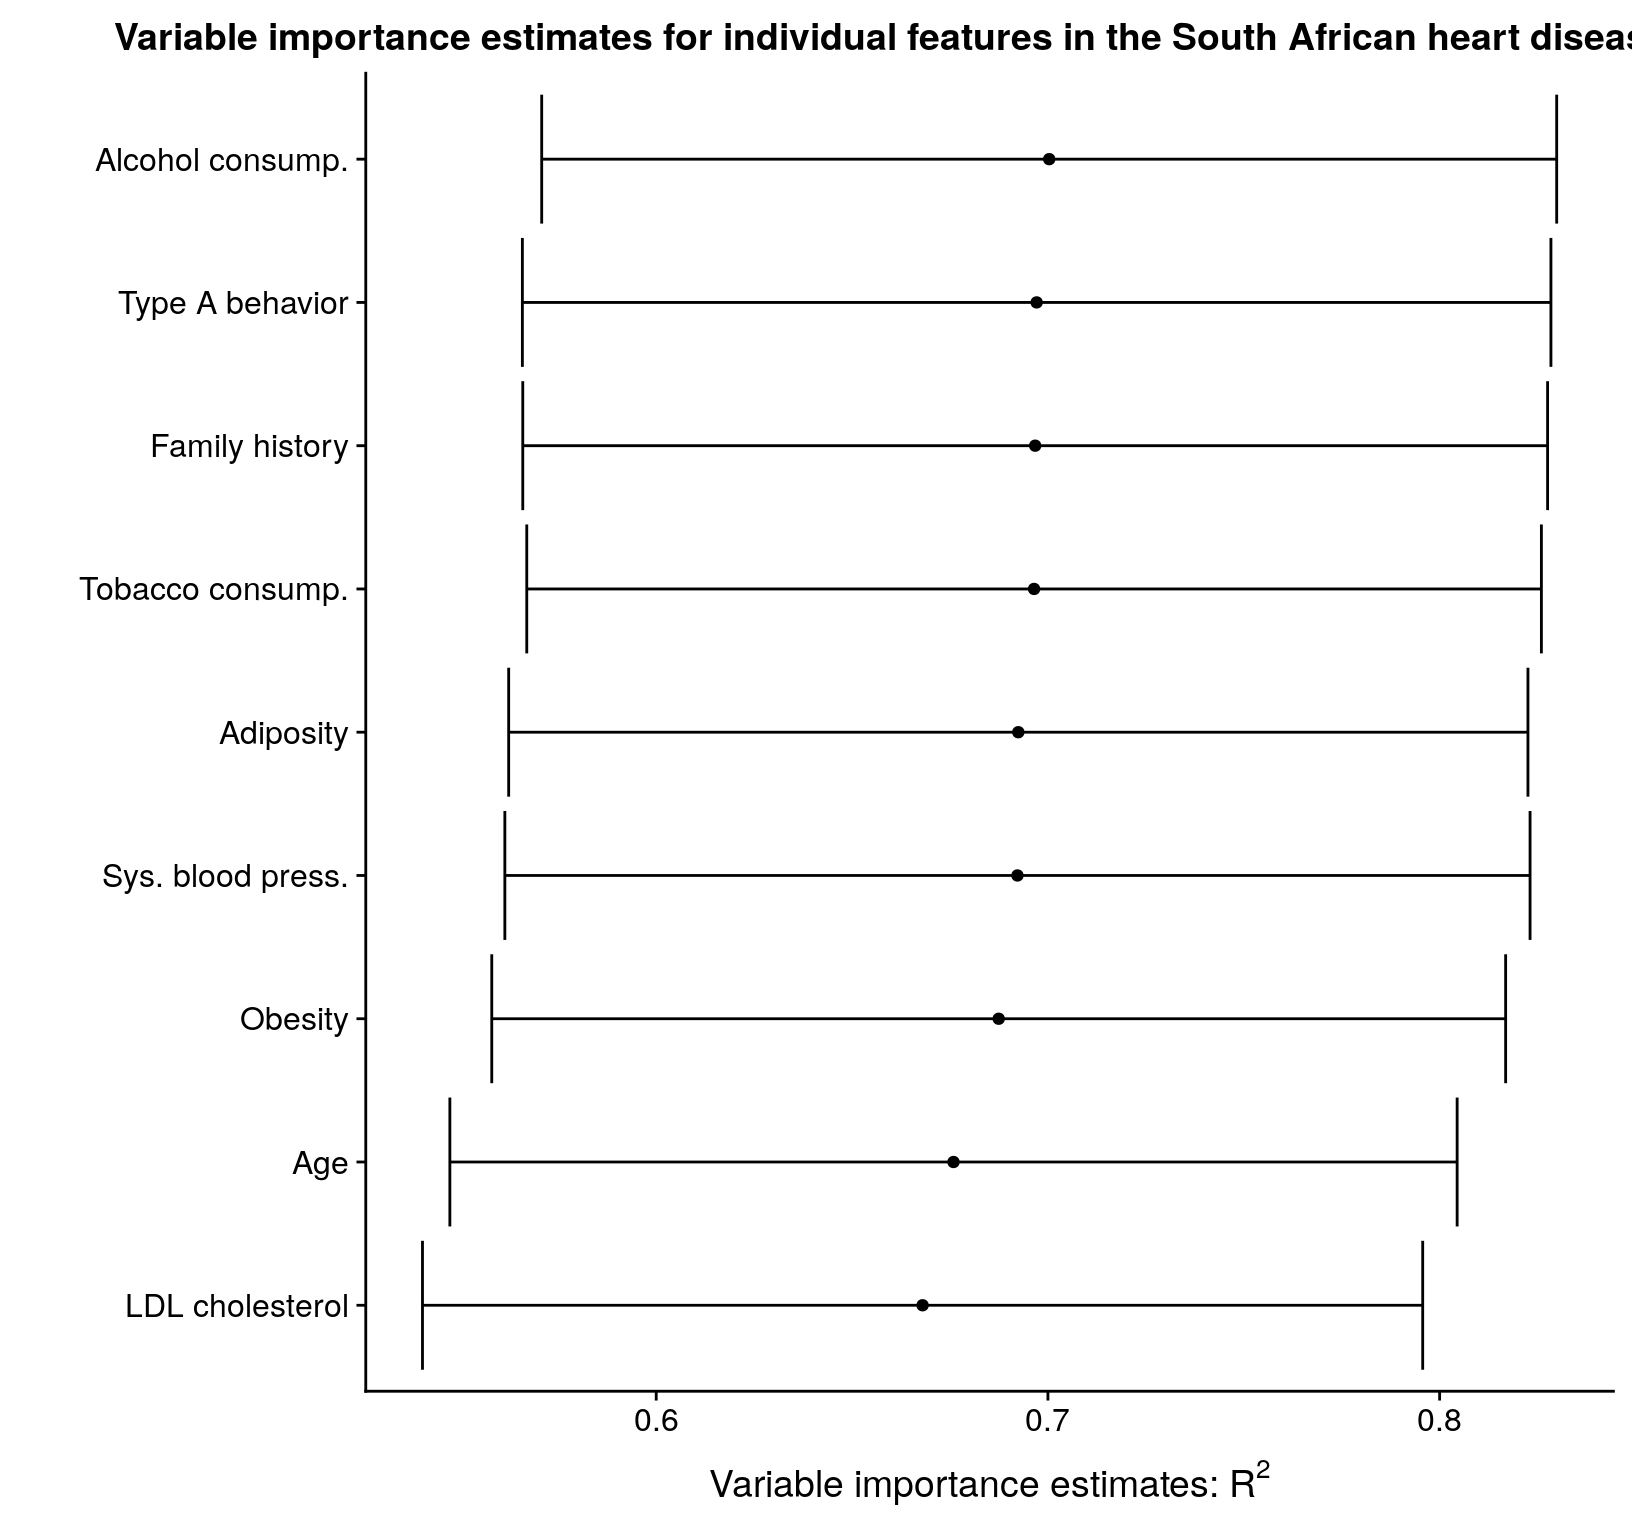
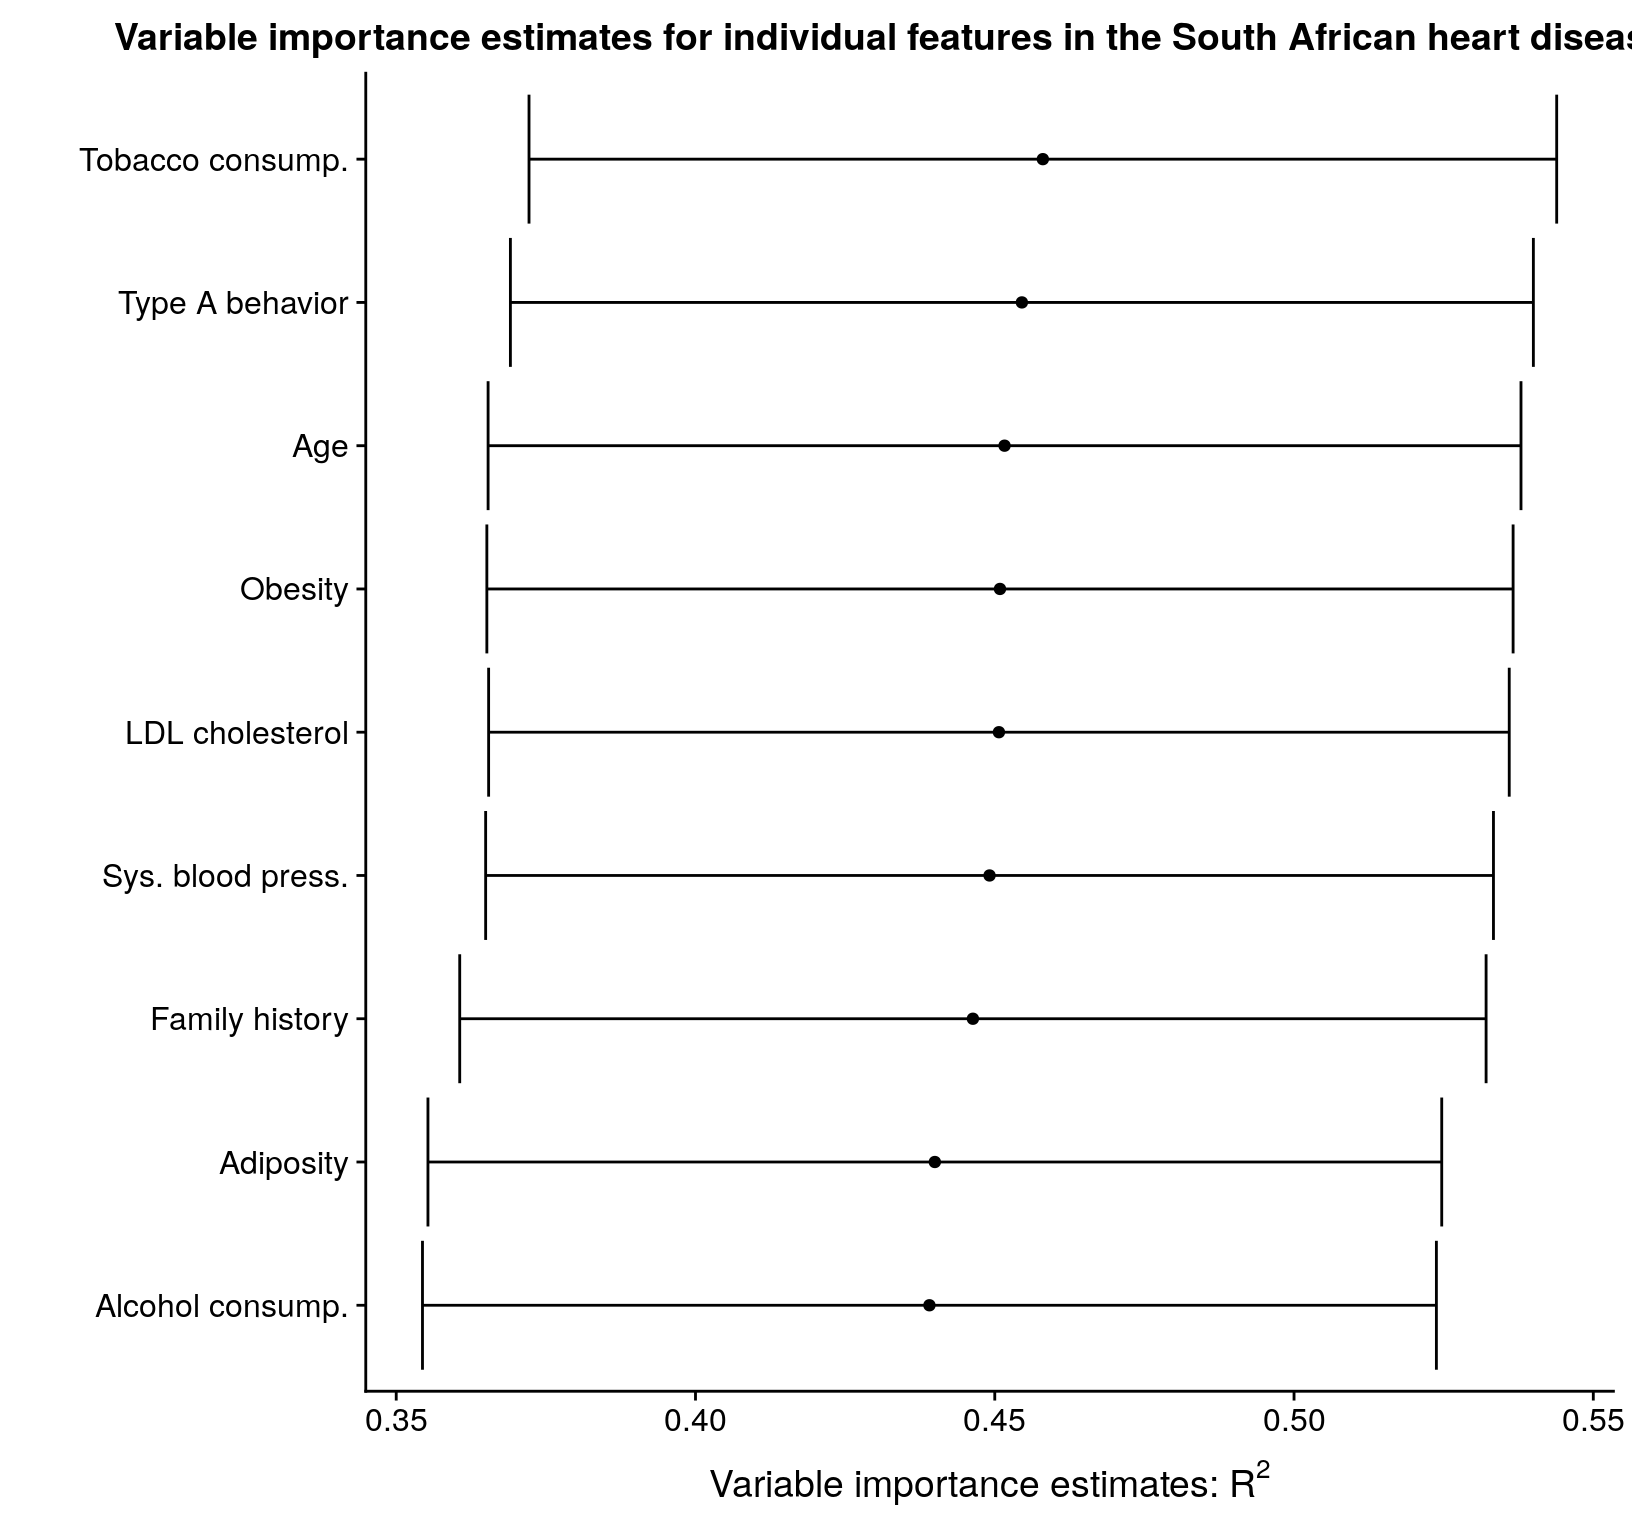
update pkgdown site

diff --git a/docs/articles/introduction_to_vimp.html b/docs/articles/introduction_to_vimp.html
@@ -170,7 +170,7 @@
 ## 
 ## Variable importance estimates:
 ##       Estimate  SE         95% CI                  VIMP &gt; 0 p-value
-## s = 1 0.1193699 0.04499151 [0.03118814, 0.2075516] NA       NA</code></pre>
+## s = 1 0.1614381 0.04820007 [0.06696767, 0.2559085] NA       NA</code></pre>
 <div class="sourceCode" id="cb18"><html><body><pre class="r"><span class="fu"><a href="https://rdrr.io/r/base/print.html">print</a></span>(<span class="no">est_1</span>)</pre></body></html></div>
 <pre><code>## Call:
 ## cv_vim(Y = Y, X = X, f1 = f1, f2 = f2, indx = indx, V = V, folds = folds, 
@@ -180,8 +180,8 @@
 ## 
 ## Variable importance estimates:
 ##       Estimate  SE         95% CI                  VIMP &gt; 0 p-value
-## s = 1 0.1193699 0.04499151 [0.03118814, 0.2075516] NA       NA</code></pre>
-<p>This output shows that we have estimated the importance of <span class="math inline">\(X_1\)</span> to be 0.119, with a 95% confidence interval of [0.031, 0.208].</p>
+## s = 1 0.1614381 0.04820007 [0.06696767, 0.2559085] NA       NA</code></pre>
+<p>This output shows that we have estimated the importance of <span class="math inline">\(X_1\)</span> to be 0.161, with a 95% confidence interval of [0.067, 0.256].</p>
 </div>
 <div id="detailed-guide" class="section level2">
 <h2 class="hasAnchor">
@@ -281,15 +281,15 @@
 ## 
 ## Variable importance estimates:
 ##       Estimate  SE         95% CI                 VIMP &gt; 0 p-value     
-## s = 5 0.4027600 0.06235989 [0.2805369, 0.5249831] TRUE     1.886314e-10
-## s = 6 0.4015080 0.06228207 [0.2794374, 0.5235787] TRUE     2.108901e-10
-## s = 8 0.3979152 0.06237592 [0.2756606, 0.5201697] TRUE     2.807324e-10
-## s = 2 0.3975083 0.06232363 [0.2753563, 0.5196604] TRUE     3.130411e-10
-## s = 1 0.3969390 0.06232560 [0.2747830, 0.5190949] TRUE     3.109413e-10
-## s = 4 0.3948279 0.06268663 [0.2719644, 0.5176914] TRUE     3.494384e-10
-## s = 7 0.3908953 0.06236935 [0.2686537, 0.5131370] TRUE     3.897709e-10
-## s = 9 0.3906595 0.06207381 [0.2689971, 0.5123220] TRUE     5.563547e-10
-## s = 3 0.3873136 0.06202466 [0.2657475, 0.5088797] TRUE     6.905646e-10</code></pre>
+## s = 3 0.2232049 0.04890184 [0.1273590, 0.3190507] TRUE     1.999632e-06
+## s = 9 0.2186993 0.04877258 [0.1231069, 0.3142918] TRUE     3.332200e-06
+## s = 6 0.2178259 0.04880772 [0.1221645, 0.3134873] TRUE     3.537404e-06
+## s = 1 0.2174074 0.04838651 [0.1225716, 0.3122432] TRUE     3.480110e-06
+## s = 7 0.2166329 0.04878379 [0.1210184, 0.3122473] TRUE     3.970101e-06
+## s = 2 0.2156883 0.04875169 [0.1201368, 0.3112399] TRUE     4.361981e-06
+## s = 4 0.2155560 0.04850978 [0.1204786, 0.3106334] TRUE     4.162218e-06
+## s = 8 0.2139217 0.04828847 [0.1192780, 0.3085653] TRUE     4.101858e-06
+## s = 5 0.2034575 0.04853671 [0.1083273, 0.2985877] TRUE     1.267403e-05</code></pre>
 </div>
 <div id="building-a-library-of-learners" class="section level3">
 <h3 class="hasAnchor">
@@ -406,24 +406,24 @@
 ## 
 ## Variable importance estimates:
 ##       Estimate  SE         95% CI                 VIMP &gt; 0 p-value
-## s = 5 0.6967471 0.06674568 [0.5659279, 0.8275662] TRUE     0</code></pre>
+## s = 5 0.4463482 0.04374594 [0.3606078, 0.5320887] TRUE     0</code></pre>
 <p>The object returned by <code><a href="../reference/vimp_rsquared.html">vimp_rsquared()</a></code> also contains fitted values from using <code><a href="https://rdrr.io/pkg/SuperLearner/man/SuperLearner.html">SuperLearner()</a></code>; I access these using <code>$full_fit</code> and <code>$red_fit</code>. For example,</p>
 <div class="sourceCode" id="cb35"><html><body><pre class="r"><span class="fu"><a href="https://rdrr.io/r/utils/head.html">head</a></span>(<span class="no">fam_vim</span>$<span class="no">full_fit</span>)</pre></body></html></div>
 <pre><code>##            [,1]
-## [1,]  0.4126337
-## [2,]  0.7892806
-## [3,]  0.1196835
-## [4,]  0.5688739
-## [5,]  0.7564208
-## [6,] -0.1229699</code></pre>
+## [1,]  0.1862281
+## [2,]  0.2243440
+## [3,]  0.1360819
+## [4,]  0.7298691
+## [5,]  0.8133968
+## [6,] -0.2214518</code></pre>
 <div class="sourceCode" id="cb37"><html><body><pre class="r"><span class="fu"><a href="https://rdrr.io/r/utils/head.html">head</a></span>(<span class="no">fam_vim</span>$<span class="no">red_fit</span>)</pre></body></html></div>
 <pre><code>##           [,1]
-## [1,] 0.4871778
-## [2,] 0.3931104
-## [3,] 0.2921853
-## [4,] 0.4709787
-## [5,] 0.4360560
-## [6,] 0.2747836</code></pre>
+## [1,] 0.3779895
+## [2,] 0.2527480
+## [3,] 0.4404965
+## [4,] 0.2931574
+## [5,] 0.5035260
+## [6,] 0.1638404</code></pre>
 <p>I said earlier that I want to obtain estimates of all individual features in these data, so let’s choose type A behavior (<code>tpa</code>) next. Now that I have estimated variable importance for family history, the <code>full_fit</code> object contains our estimate of <span class="math inline">\(\mu_{P_0}\)</span>. Since I have spent the time to estimate this using <code><a href="https://rdrr.io/pkg/SuperLearner/man/SuperLearner.html">SuperLearner()</a></code>, there is no reason to estimate this function again. This leads me to choose (2) above for estimating the importance of type A behavior, since I have already estimated variable importance on one feature in this dataset. Using the small learners library (again only for illustration) yields</p>
 <div class="sourceCode" id="cb39"><html><body><pre class="r"><span class="co">## specify that full_fit doesn't change</span>
 <span class="no">full_fit</span> <span class="kw">&lt;-</span> <span class="no">fam_vim</span>$<span class="no">full_fit</span>
@@ -439,8 +439,8 @@
 ##     run_regression = FALSE, folds = heart_folds)
 ## 
 ## Variable importance estimates:
-##       Estimate  SE        95% CI                 VIMP &gt; 0 p-value
-## s = 6 0.6971224 0.0669882 [0.5658279, 0.8284168] TRUE     0</code></pre>
+##       Estimate  SE         95% CI                 VIMP &gt; 0 p-value
+## s = 6 0.4545315 0.04360064 [0.3690758, 0.5399871] TRUE     0</code></pre>
 <p>This takes approximately 5 seconds — now rather than estimating both conditional means, I am only estimating one.</p>
 <p>If I choose (2), then I have to use a single method from the library, or call <code><a href="https://rdrr.io/pkg/SuperLearner/man/SuperLearner.html">SuperLearner()</a></code> myself, prior to estimating variable importance. Then <code><a href="../reference/vim.html">vim()</a></code> returns variable importance estimates based on these fitted values. For example, let’s estimate variable importance for current alcohol consumption using this approach.</p>
 <div class="sourceCode" id="cb41"><html><body><pre class="r"><span class="co">## set up the data, removing the columns for alcohol use and chd</span>

diff --git a/docs/index.html b/docs/index.html
@@ -5,13 +5,13 @@
 <meta charset="utf-8">
 <meta http-equiv="X-UA-Compatible" content="IE=edge">
 <meta name="viewport" content="width=device-width, initial-scale=1.0">
-<title>Perform Inference on Algorithm-agnostic Variable Importance • vimp</title>
+<title>Perform Inference on Algorithm-Agnostic Variable Importance • vimp</title>
 <!-- jquery --><script src="https://cdnjs.cloudflare.com/ajax/libs/jquery/3.4.1/jquery.min.js" integrity="sha256-CSXorXvZcTkaix6Yvo6HppcZGetbYMGWSFlBw8HfCJo=" crossorigin="anonymous"></script><!-- Bootstrap --><link rel="stylesheet" href="https://cdnjs.cloudflare.com/ajax/libs/twitter-bootstrap/3.4.1/css/bootstrap.min.css" integrity="sha256-bZLfwXAP04zRMK2BjiO8iu9pf4FbLqX6zitd+tIvLhE=" crossorigin="anonymous">
 <script src="https://cdnjs.cloudflare.com/ajax/libs/twitter-bootstrap/3.4.1/js/bootstrap.min.js" integrity="sha256-nuL8/2cJ5NDSSwnKD8VqreErSWHtnEP9E7AySL+1ev4=" crossorigin="anonymous"></script><!-- bootstrap-toc --><link rel="stylesheet" href="bootstrap-toc.css">
 <script src="bootstrap-toc.js"></script><!-- Font Awesome icons --><link rel="stylesheet" href="https://cdnjs.cloudflare.com/ajax/libs/font-awesome/5.12.1/css/all.min.css" integrity="sha256-mmgLkCYLUQbXn0B1SRqzHar6dCnv9oZFPEC1g1cwlkk=" crossorigin="anonymous">
 <link rel="stylesheet" href="https://cdnjs.cloudflare.com/ajax/libs/font-awesome/5.12.1/css/v4-shims.min.css" integrity="sha256-wZjR52fzng1pJHwx4aV2AO3yyTOXrcDW7jBpJtTwVxw=" crossorigin="anonymous">
 <!-- clipboard.js --><script src="https://cdnjs.cloudflare.com/ajax/libs/clipboard.js/2.0.6/clipboard.min.js" integrity="sha256-inc5kl9MA1hkeYUt+EC3BhlIgyp/2jDIyBLS6k3UxPI=" crossorigin="anonymous"></script><!-- headroom.js --><script src="https://cdnjs.cloudflare.com/ajax/libs/headroom/0.11.0/headroom.min.js" integrity="sha256-AsUX4SJE1+yuDu5+mAVzJbuYNPHj/WroHuZ8Ir/CkE0=" crossorigin="anonymous"></script><script src="https://cdnjs.cloudflare.com/ajax/libs/headroom/0.11.0/jQuery.headroom.min.js" integrity="sha256-ZX/yNShbjqsohH1k95liqY9Gd8uOiE1S4vZc+9KQ1K4=" crossorigin="anonymous"></script><!-- pkgdown --><link href="pkgdown.css" rel="stylesheet">
-<script src="pkgdown.js"></script><meta property="og:title" content="Perform Inference on Algorithm-agnostic Variable Importance">
+<script src="pkgdown.js"></script><meta property="og:title" content="Perform Inference on Algorithm-Agnostic Variable Importance">
 <meta property="og:description" content="Calculate point estimates of and valid confidence intervals for
     nonparametric, algorithm-agnostic variable importance measures in high and low dimensions,
     using flexible estimators of the underlying regression functions. For more information

diff --git a/docs/LICENSE.html b/docs/LICENSE.html
@@ -124,7 +124,7 @@
 
 
 <p>MIT License</p>
-<p>Copyright (c) [2018-2020] [Brian D. Williamson]</p>
+<p>Copyright (c) [2018–2020] [Brian D. Williamson]</p>
 <p>Permission is hereby granted, free of charge, to any person obtaining a copy of this software and associated documentation files (the “Software”), to deal in the Software without restriction, including without limitation the rights to use, copy, modify, merge, publish, distribute, sublicense, and/or sell copies of the Software, and to permit persons to whom the Software is furnished to do so, subject to the following conditions:</p>
 <p>The above copyright notice and this permission notice shall be included in all copies or substantial portions of the Software.</p>
 <p>THE SOFTWARE IS PROVIDED “AS IS”, WITHOUT WARRANTY OF ANY KIND, EXPRESS OR IMPLIED, INCLUDING BUT NOT LIMITED TO THE WARRANTIES OF MERCHANTABILITY, FITNESS FOR A PARTICULAR PURPOSE AND NONINFRINGEMENT. IN NO EVENT SHALL THE AUTHORS OR COPYRIGHT HOLDERS BE LIABLE FOR ANY CLAIM, DAMAGES OR OTHER LIABILITY, WHETHER IN AN ACTION OF CONTRACT, TORT OR OTHERWISE, ARISING FROM, OUT OF OR IN CONNECTION WITH THE SOFTWARE OR THE USE OR OTHER DEALINGS IN THE SOFTWARE.</p>

diff --git a/docs/LICENSE-text.html b/docs/LICENSE-text.html
@@ -122,7 +122,7 @@
       <h1>License</h1>
     </div>
 
-<pre>YEAR: 2018
+<pre>YEAR: 2018--2020
 COPYRIGHT HOLDER: Brian D. Williamson
 </pre>
 
